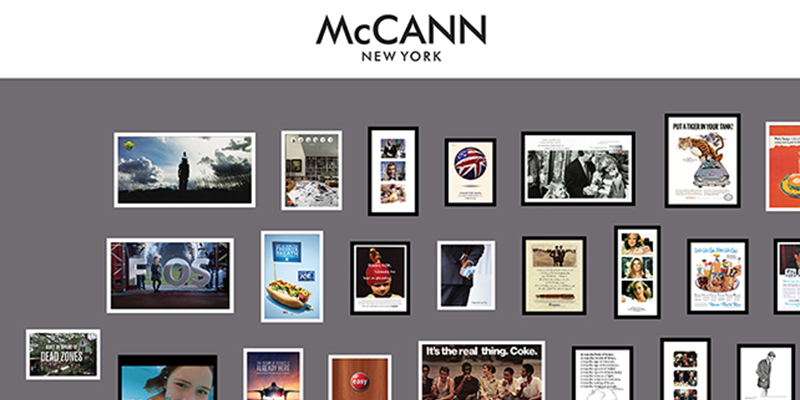
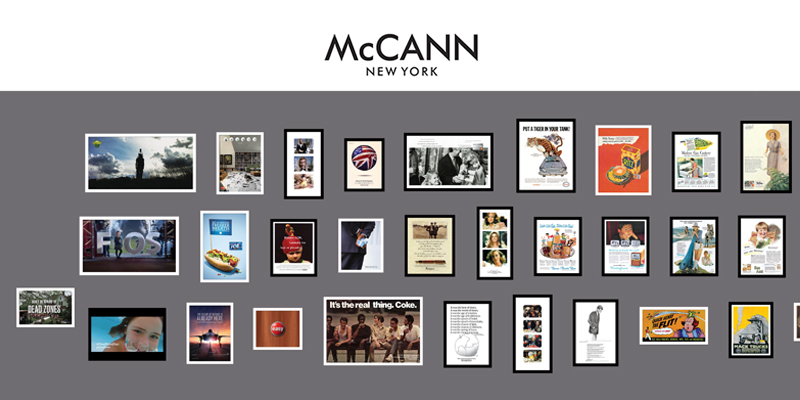
additional media query, mobile responsive fix, fixed images

diff --git a/index.html b/index.html
@@ -7,6 +7,7 @@
    <link href="style/styles.css" rel="stylesheet">
    <script src="https://code.jquery.com/jquery-1.12.0.min.js" type="text/javascript"></script>
    <link rel="shortcut icon" href="images/favicon-96x96.png" type="image/x-icon"/>
+   <meta name="viewport" content="width=device-width, initial-scale=1.0">
 </head>
 <body>
    <header>

diff --git a/style/styles.css b/style/styles.css
@@ -240,3 +240,12 @@
         visibility: hidden;
       }
     }
+
+    /* Large screen queries */
+
+  @media (min-width: 1600px) {  
+    #hero img {
+    margin-left: 34%;
+    margin: 2px 0px 0px 0px;
+    width: 70%;
+  }
